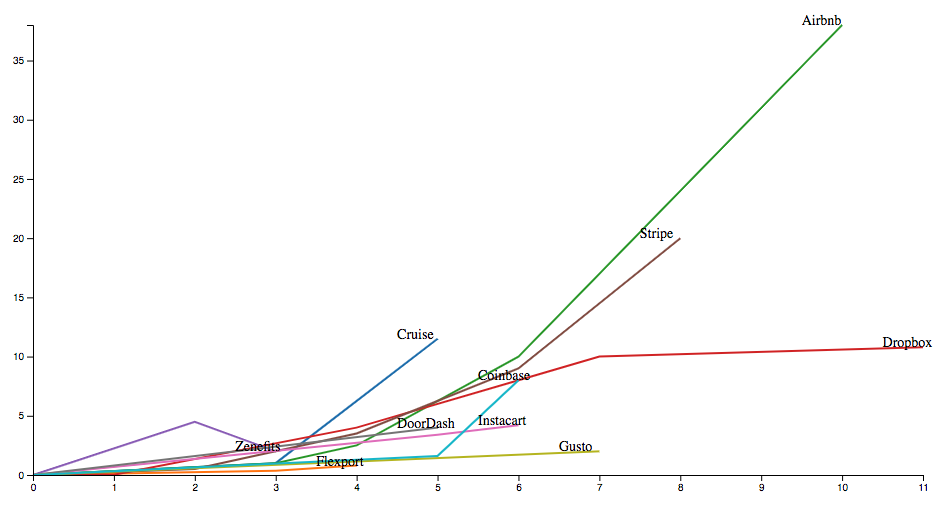
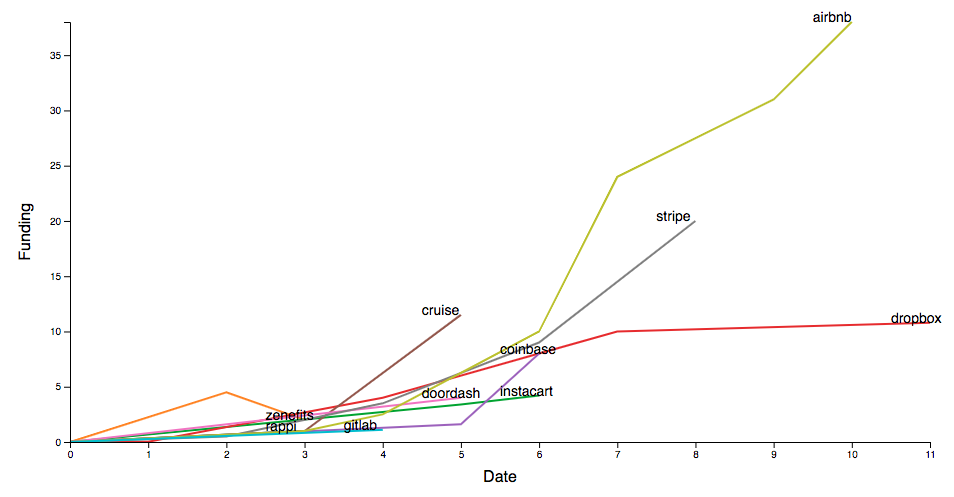
new png

diff --git a/reports/funding_vs_time.html b/reports/funding_vs_time.html
@@ -9,7 +9,7 @@
 }
 
 * {
-  font-family: Helvetica;
+  font-family: Helvetica
 }
 
 </style>
@@ -19,20 +19,20 @@
 <script src="../companies.js"></script>
 <script>
 
-var margin = {top: 20, right: 20, bottom: 60, left: 80},
+var margin = {top: 20, right: 20, bottom: 60, left: 70},
     width = 960 - margin.left - margin.right,
     height = 500 - margin.top - margin.bottom;
 
 var parseTime = d3.timeParse("%d-%b-%y");
 
-var x = d3.scaleLinear().range([0, width]);
+var x = d3.scaleTime().range([0, width]);
 var y = d3.scaleLinear().range([height, 0]);
-var z = d3.scaleOrdinal(d3.schemeCategory10);
+var z = d3.scaleOrdinal(d3.schemeCategory20);
 
 // define the line
 const value_line = d3.line()
-    .x(function(d) { return x(d.age); })
-    .y(function(d) { return y(d.billions); });
+    .x(function(d) { return x(d.date); })
+    .y(function(d) { return y(d.val); });
 
 // Add the svg element
 var svg = d3.select("body").append("svg")
@@ -43,27 +43,60 @@ var svg = d3.select("body").append("svg")
           "translate(" + margin.left + "," + margin.top + ")");
 
 function plot(companies) {
-  var all_dates = [];
-  var all_valuations = [];
+  // Clean up raw data
   for(let company_key in companies) {
     const company = companies[company_key];
-    company.valuations.forEach(function(d) {
-      all_dates.push(d.age);
-      all_valuations.push(d.billions);
+    const rounds = [];
+
+    // Add initial $0 deal at founding date
+    // const year_founded = company.valuations[0].year;
+    // const date_founded = new Date();
+    // date_founded.setYear(year_founded);
+    // date_founded.setMonth(0); // assume founded in january for simplicity
+    // rounds.push({
+    //   date: date_founded,
+    //   val: 0,
+    // });
+
+    // Parse pitchbook strings into useable values
+    console.log('company:', company);
+    for(let i2 = 0; i2 < company.rounds.length; i2++) {
+      const val = parseFloat(company.rounds[i2].amount);
+      if(!val || val == 0)
+        continue;
+      rounds.push({
+        date: new Date(Date.parse(company.rounds[i2].date_str)),
+        val: val,
+      });
+    }
+    rounds.sort(function(a, b) { return a.date.getTime() - b.date.getTime() });
+    company.rounds = rounds;
+    // if(rounds.length > 0)
+    //   companies.push(company)
+  }
+
+  // Find extreme values to set axes
+  var all_dates = [];
+  var all_vals = [];
+  for(let company_key in companies) {
+    const company = companies[company_key];
+    company.rounds.forEach(function(d) {
+      all_dates.push(d.date);
+      all_vals.push(d.val);
     })
-  };
+  }
   x.domain(d3.extent(all_dates));
-  y.domain([0, d3.max(all_valuations)]);
+  y.domain([0, d3.max(all_vals)]);
 
   const ids = [];
   let i = 0;
   for(let company_key in companies) {
     const company = companies[company_key];
-    company.id = i;
+    companies[company_key].id = i;
     ids.push(i);
     i += 1;
   }
-
+  console.log('ids:', ids);
   z.domain(ids);
 
   console.log('plotting:', companies);
@@ -72,11 +105,11 @@ function plot(companies) {
   for(let company_key in companies) {
     const company = companies[company_key];
     svg.append("path")
-        .data([company.valuations])
+        .data([company.rounds])
         .attr("class", "line")
         .attr("d", value_line)
         .style("stroke", z(company.id));
-  }
+  };
 
   for(let company_key in companies) {
     const company = companies[company_key];
@@ -86,10 +119,10 @@ function plot(companies) {
         return company.slug;
       })
       .attr("x", function(c) {
-        return x(c.valuations[c.valuations.length - 1].age - .5);
+        return x(c.rounds[c.rounds.length - 1].date - 1000 * 60 * 60 * 24 * 30 * 8);
       })
       .attr("y", function(c) {
-        return y(c.valuations[c.valuations.length - 1].billions);
+        return y(c.rounds[c.rounds.length - 1].val);
       })
       .attr("font_family", "sans-serif")
       .attr("font-size", "14px");
@@ -102,41 +135,20 @@ function plot(companies) {
 
   svg.append("text")
       .attr("text-anchor", "middle")  // this makes it easy to centre the text as the transform is applied to the anchor
+      .attr("transform", "translate(" + -40 + "," + (height/2) + ")rotate(-90)")  // text is drawn off the screen top left, move down and out and rotate
+      .text("Funding");
+
+  svg.append("text")
+      .attr("text-anchor", "middle")  // this makes it easy to centre the text as the transform is applied to the anchor
       .attr("transform", "translate(" + (width/2) + "," + (height + 40) + ")")  // centre below axis
       .text("Date");
 
   // Add the Y Axis
   svg.append("g")
-      .call(d3.axisLeft(y));
-
-  svg.append("text")
-      .attr("text-anchor", "middle")  // this makes it easy to centre the text as the transform is applied to the anchor
-      .attr("transform", "translate(" + -40 + "," + (height/2) + ")rotate(-90)")  // text is drawn off the screen top left, move down and out and rotate
-      .text("Funding");
+      .call(d3.axisLeft(y).tickFormat(d3.format(".2s")));
 };
 
-(function() {
-  const filtered_companies = {};
-  // These companies clutter the graph without offering much more useful info.
-  const exclude = [
-    'flexport', 'mixpanel', 'gusto', 'docker', 'twitch', 'weebly', 'reddit', 'ginkgo-bioworks'
-  ];
-
-  for(let company_key in companies) {
-    if(exclude.indexOf(company_key) != -1)
-      continue;
-    const company = companies[company_key];
-    if(!company.valuations || company.valuations.length == 1)
-      continue
-    company.valuations.forEach(function(v) {
-      v.age = v.year - company.valuations[0].year;
-    });
-    filtered_companies[company_key] = company;
-  };
-
-  console.log('companies:', companies);
-  plot(filtered_companies);
-})();
+plot(companies);
 </script>
 </body>
 </html>

diff --git a/reports/funding_vs_age.html b/reports/funding_vs_age.html
@@ -25,13 +25,13 @@ var margin = {top: 20, right: 20, bottom: 60, left: 70},
 
 var parseTime = d3.timeParse("%d-%b-%y");
 
-var x = d3.scaleTime().range([0, width]);
+var x = d3.scaleLinear().range([0, width]);
 var y = d3.scaleLinear().range([height, 0]);
 var z = d3.scaleOrdinal(d3.schemeCategory20);
 
 // define the line
 const value_line = d3.line()
-    .x(function(d) { return x(d.date); })
+    .x(function(d) { return x(d.age); })
     .y(function(d) { return y(d.val); });
 
 // Add the svg element
@@ -42,7 +42,19 @@ var svg = d3.select("body").append("svg")
     .attr("transform",
           "translate(" + margin.left + "," + margin.top + ")");
 
-function plot(companies) {
+function plot(raw_companies) {
+  const companies = {};
+  for(let company_key in raw_companies) {
+    const company = raw_companies[company_key];
+    company.rounds.sort(function(a,b) {
+        return Date.parse(a.date_str) - Date.parse(b.date_str);
+    });
+    company.rounds.forEach(function(r) {
+      r.age = Date.parse(r.date_str) - Date.parse(company.rounds[0].date_str);
+    });
+    companies[company_key] = company;
+  };
+
   // Clean up raw data
   for(let company_key in companies) {
     const company = companies[company_key];
@@ -65,11 +77,10 @@ function plot(companies) {
       if(!val || val == 0)
         continue;
       rounds.push({
-        date: new Date(Date.parse(company.rounds[i2].date_str)),
+        age: company.rounds[i2].age,
         val: val,
       });
     }
-    rounds.sort(function(a, b) { return a.date.getTime() - b.date.getTime() });
     company.rounds = rounds;
     // if(rounds.length > 0)
     //   companies.push(company)
@@ -81,7 +92,7 @@ function plot(companies) {
   for(let company_key in companies) {
     const company = companies[company_key];
     company.rounds.forEach(function(d) {
-      all_dates.push(d.date);
+      all_dates.push(d.age);
       all_vals.push(d.val);
     })
   }
@@ -104,6 +115,7 @@ function plot(companies) {
   // Add the value_line path.
   for(let company_key in companies) {
     const company = companies[company_key];
+    console.log('rounds:', company.rounds);
     svg.append("path")
         .data([company.rounds])
         .attr("class", "line")
@@ -119,7 +131,7 @@ function plot(companies) {
         return company.slug;
       })
       .attr("x", function(c) {
-        return x(c.rounds[c.rounds.length - 1].date - 1000 * 60 * 60 * 24 * 30 * 8);
+        return x(c.rounds[c.rounds.length - 1].age - 1);
       })
       .attr("y", function(c) {
         return y(c.rounds[c.rounds.length - 1].val);
@@ -141,7 +153,7 @@ function plot(companies) {
   svg.append("text")
       .attr("text-anchor", "middle")  // this makes it easy to centre the text as the transform is applied to the anchor
       .attr("transform", "translate(" + (width/2) + "," + (height + 40) + ")")  // centre below axis
-      .text("Date");
+      .text("Age");
 
   // Add the Y Axis
   svg.append("g")
